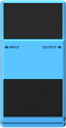
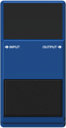
Refine block thumbnails: correct default colors, precise hover outline, real pedal images
- Regenerate _default.png per type with matching accent colors
- Hover outline calculates actual rendered thumbnail size (hugs the pedal image)
- Hover border subtle white (#ffffff60), only on mouse hover
- Add real pedal thumbnails: Ibanez TS9, Boss BD-2 Blues Driver
- Remove highlight line change on insert slot hover
- Pass thumb_width/thumb_height from Rust for precise Slint layout

diff --git a/crates/adapter-gui/src/lib.rs b/crates/adapter-gui/src/lib.rs
@@ -5580,19 +5580,19 @@ fn chain_draft_from_chain(index: usize, chain: &Chain) -> ChainDraft {
         output_channels: chain.output_channels.clone(),
     }
 }
-fn load_thumbnail_image(effect_type: &str, model_id: &str) -> (slint::Image, bool) {
+fn load_thumbnail_image(effect_type: &str, model_id: &str) -> (slint::Image, bool, f32, f32) {
     use std::cell::RefCell;
     use std::collections::HashMap;
 
     thread_local! {
-        static CACHE: RefCell<HashMap<(String, String), slint::Image>> = RefCell::new(HashMap::new());
+        static CACHE: RefCell<HashMap<(String, String), (slint::Image, f32, f32)>> = RefCell::new(HashMap::new());
     }
 
     let key = (effect_type.to_string(), model_id.to_string());
 
     let cached = CACHE.with(|c| c.borrow().get(&key).cloned());
-    if let Some(img) = cached {
-        return (img, true);
+    if let Some((img, w, h)) = cached {
+        return (img, true, w, h);
     }
 
     match block_thumbnails::thumbnail_png(effect_type, model_id) {
@@ -5600,22 +5600,24 @@ fn load_thumbnail_image(effect_type: &str, model_id: &str) -> (slint::Image, boo
             match image::load_from_memory_with_format(png_bytes, image::ImageFormat::Png) {
                 Ok(img) => {
                     let rgba = img.to_rgba8();
+                    let w = rgba.width() as f32;
+                    let h = rgba.height() as f32;
                     let buffer = slint::SharedPixelBuffer::<slint::Rgba8Pixel>::clone_from_slice(
                         rgba.as_raw(),
                         rgba.width(),
                         rgba.height(),
                     );
                     let slint_img = slint::Image::from_rgba8(buffer);
-                    CACHE.with(|c| c.borrow_mut().insert(key, slint_img.clone()));
-                    (slint_img, true)
+                    CACHE.with(|c| c.borrow_mut().insert(key, (slint_img.clone(), w, h)));
+                    (slint_img, true, w, h)
                 }
                 Err(e) => {
                     log::warn!("Failed to decode thumbnail for {}/{}: {}", effect_type, model_id, e);
-                    (slint::Image::default(), false)
+                    (slint::Image::default(), false, 0.0, 0.0)
                 }
             }
         }
-        None => (slint::Image::default(), false)
+        None => (slint::Image::default(), false, 0.0, 0.0)
     }
 }
 fn chain_block_item_from_block(block: &AudioBlock) -> ChainBlockItem {
@@ -5632,7 +5634,7 @@ fn chain_block_item_from_block(block: &AudioBlock) -> ChainBlockItem {
     };
     let family = block_family_for_kind(&kind).to_string();
     let block_type = supported_block_type(&kind);
-    let (thumbnail, has_thumbnail) = load_thumbnail_image(&kind, &label);
+    let (thumbnail, has_thumbnail, thumb_width, thumb_height) = load_thumbnail_image(&kind, &label);
     ChainBlockItem {
         kind: kind.into(),
         icon_kind: block_type
@@ -5650,6 +5652,8 @@ fn chain_block_item_from_block(block: &AudioBlock) -> ChainBlockItem {
         enabled: block.enabled,
         thumbnail,
         has_thumbnail,
+        thumb_width,
+        thumb_height,
     }
 }
 fn build_input_channel_items(

diff --git a/crates/block-thumbnails/src/lib.rs b/crates/block-thumbnails/src/lib.rs
@@ -3,13 +3,11 @@ include!(concat!(env!("OUT_DIR"), "/generated_thumbnails.rs"));
 /// Returns the PNG bytes for a specific model thumbnail.
 /// Fallback chain: exact (effect_type, model_id) → (effect_type, "_default") → None
 pub fn thumbnail_png(effect_type: &str, model_id: &str) -> Option<&'static [u8]> {
-    // Try exact match
     THUMBNAILS
         .iter()
         .find(|(t, m, _)| *t == effect_type && *m == model_id)
         .map(|(_, _, bytes)| *bytes)
         .or_else(|| {
-            // Fallback to _default for the type
             THUMBNAILS
                 .iter()
                 .find(|(t, m, _)| *t == effect_type && *m == "_default")
